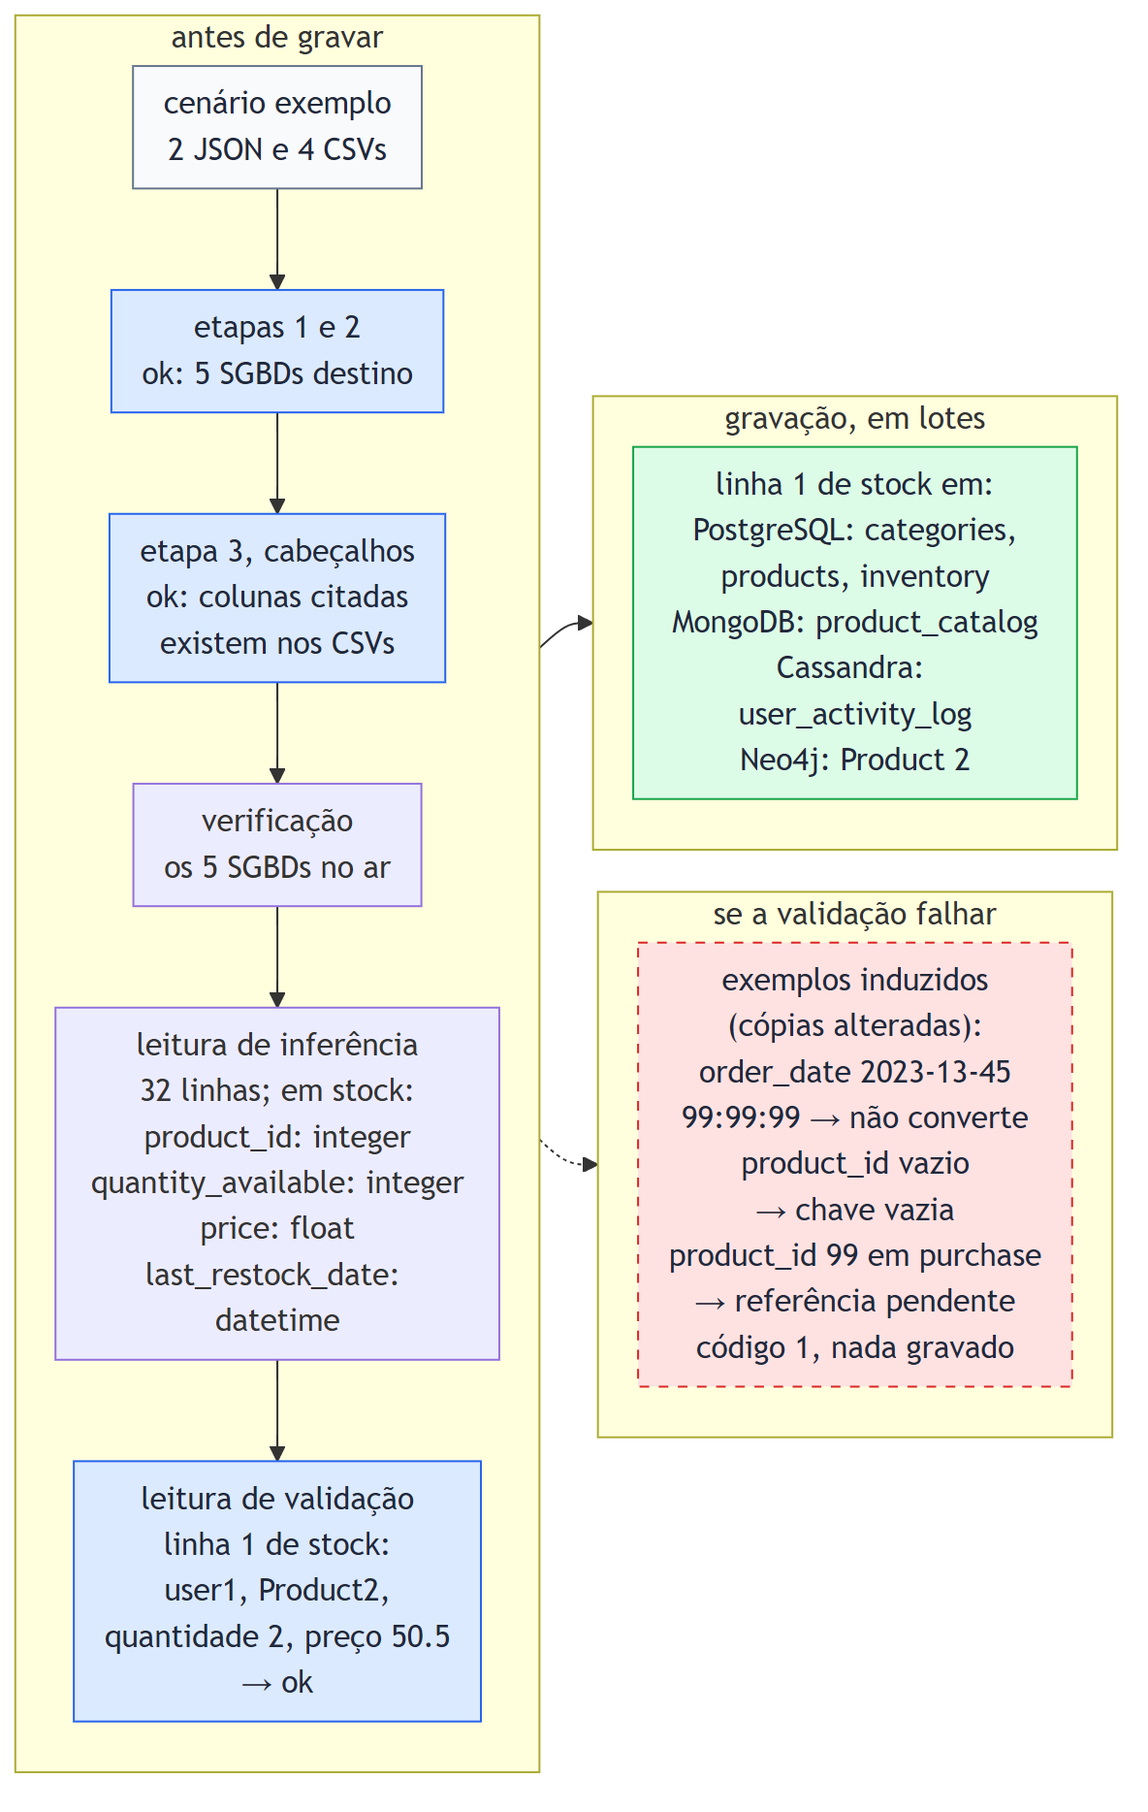
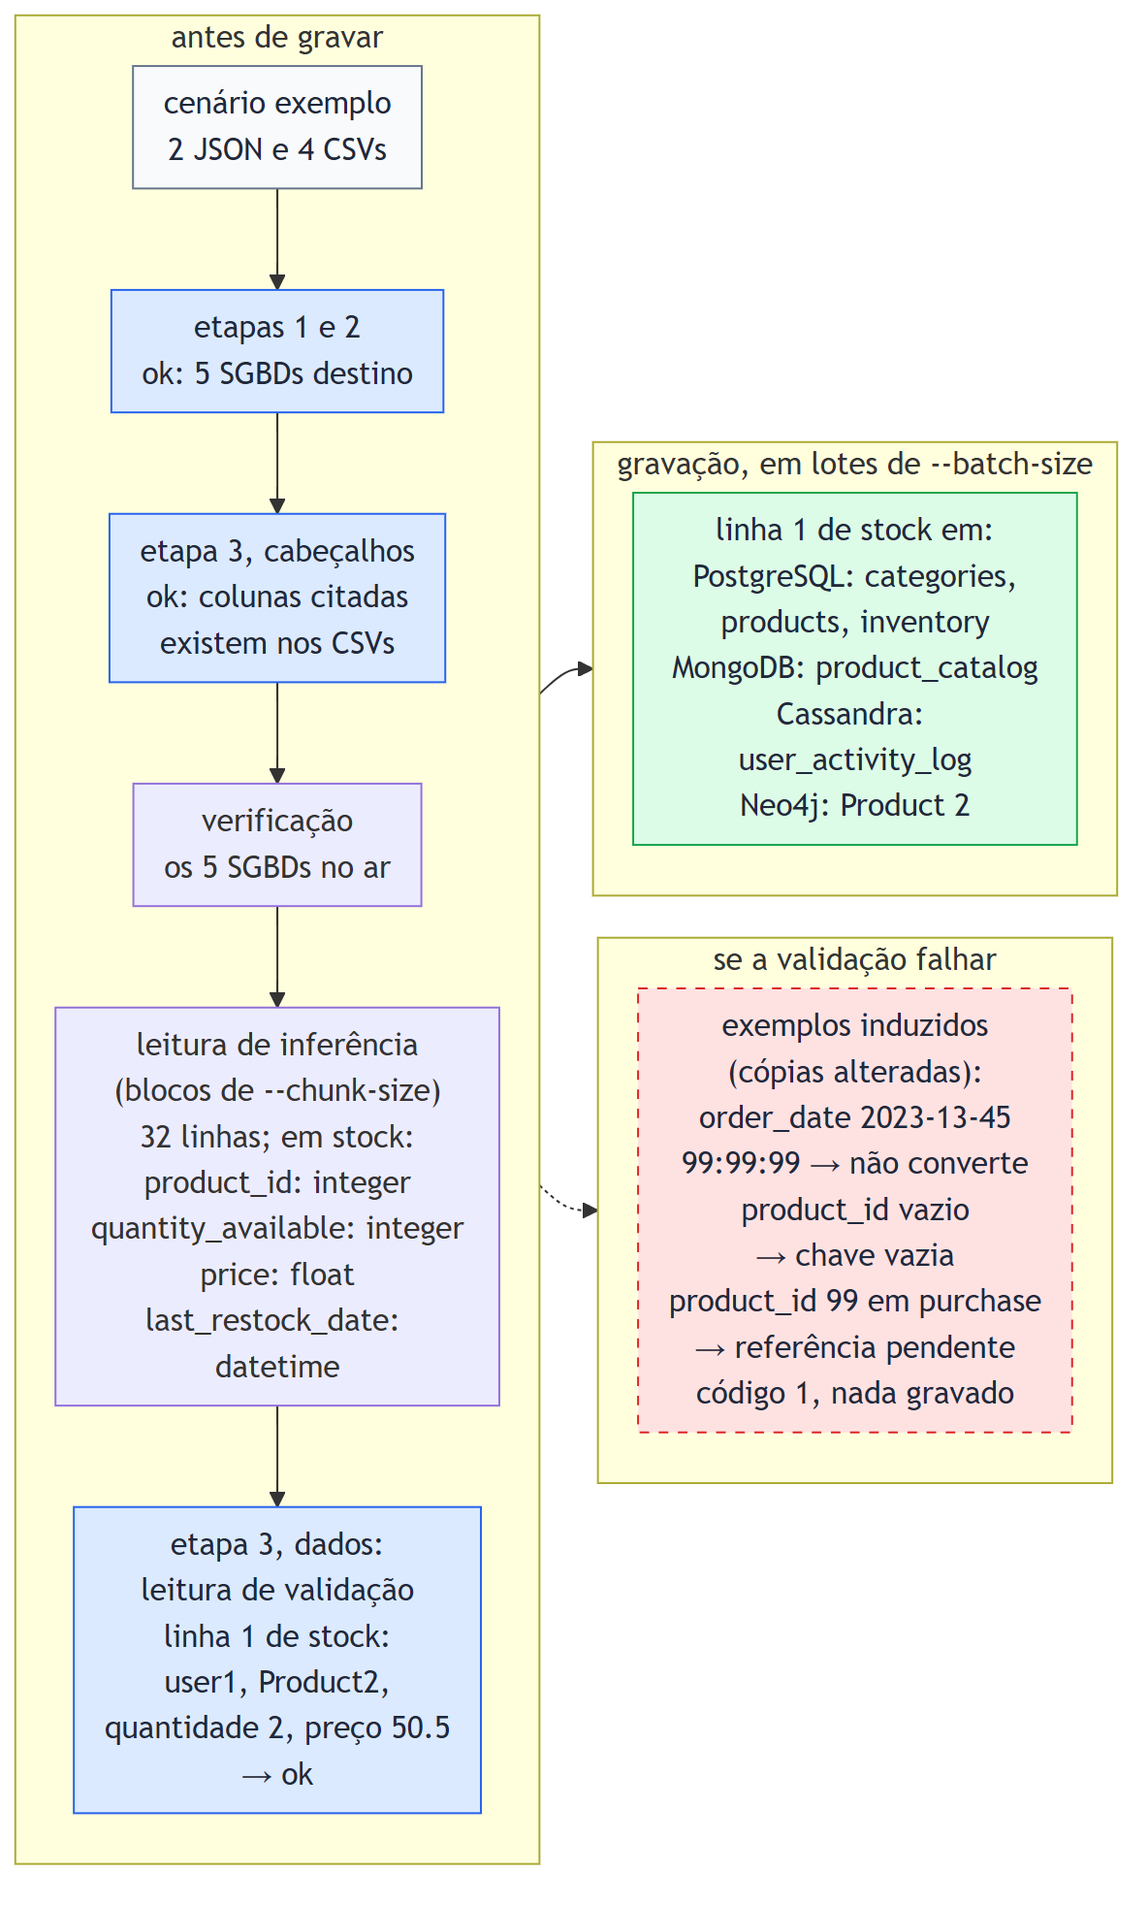
docs(tcc): correcoes da revisao final do relatorio v2.4
A falta de cassandra_partition e recusada na etapa 3 de validacao, inclusive no --dry-run (o texto dizia o contrario); a eliminacao de duplicatas por is_key vale so para o PostgreSQL; a tabela de escrita por SGBD conta linhas processadas, antes da eliminacao de duplicatas, com as linhas guardadas no texto; arestas do Neo4j mantem as propriedades da ultima linha; a QP4 define as fases historicas e deixa de citar uma fase de selecao; a importacao de arquivos maiores que a memoria fica condicionada aos conjuntos de chaves; a figura nova mostra bloco, lote e a etapa 3 sobre os dados; rotulos do grafico historico de tempo legiveis.

diff --git a/docs-tcc/chapters/ch4proposta.tex b/docs-tcc/chapters/ch4proposta.tex
@@ -200,7 +200,7 @@ indica quais podem ser omitidas.
     columns & entidade & mapear as colunas & não; se omitido, todas as colunas da fonte \\
     auto\_map, csv\_columns & entidade & controlar o mapeamento automático & não \\
     filters & entidade & selecionar linhas & não \\
-    cassandra\_\allowbreak partition, cassandra\_\allowbreak cluster & entidade do Cassandra & definir a chave primária & não; sem a partição, a gravação falha \\
+    cassandra\_\allowbreak partition, cassandra\_\allowbreak cluster & entidade do Cassandra & definir a chave primária & a partição, sim; exigida pela etapa 3 de validação \\
     csv\_column, schema\_column, is\_key, db\_type & coluna & ligar uma coluna do CSV a um atributo & não \\
     \bottomrule
   \end{tabular}
@@ -609,10 +609,11 @@ Listagem~\ref{lst:each-orders}.
 \textbf{Apache Cassandra.} As entidades são tabelas com colunas simples, e a chave
 primária é definida por dois campos próprios: \texttt{cassandra\_\allowbreak partition},
 a lista de colunas da chave de partição, e \texttt{cassandra\_\allowbreak cluster}, as
-colunas de agrupamento. A partição é obrigatória na prática, pois a linguagem CQL requer
-ao menos uma coluna de partição na chave primária; a sua ausência, porém, não é apontada
-na validação nem pelo \texttt{-{}-dry-run}, e só interrompe a importação no momento da
-gravação no Cassandra. No Cassandra, \texttt{is\_key} não
+colunas de agrupamento. A partição é obrigatória, pois a linguagem CQL requer ao menos uma
+coluna de partição na chave primária. O JSON Schema não a exige, mas a etapa 3 de
+validação recusa uma entidade do Cassandra sem \texttt{cassandra\_\allowbreak partition}
+já na conferência dos cabeçalhos, inclusive no \texttt{-{}-dry-run}, antes de gravar
+qualquer dado (Seção~\ref{sec:validacao}). No Cassandra, \texttt{is\_key} não
 participa da chave primária. A Listagem~\ref{lst:cassandra-import} mostra uma entidade
 que \textbf{une} as quatro fontes em uma tabela de eventos.
 
@@ -901,8 +902,8 @@ e precisa restar ao menos um SGBD destino depois de aplicada a opção \texttt{-
 A \textbf{etapa 3 de validação} confronta o mapeamento com os CSVs, em duas partes. A
 primeira olha só os \textbf{cabeçalhos}: confere se os arquivos existem e se as colunas
 citadas no mapeamento estão neles, se os SGBDs de modelo plano (todos, exceto o MongoDB)
-não recebem colunas aninhadas, se as colunas de partição e de agrupamento do Cassandra
-existem, se os filtros são coerentes e se as chaves estrangeiras do PostgreSQL e as
+não recebem colunas aninhadas, se cada entidade do Cassandra declara a sua partição e se
+as colunas de partição e de agrupamento existem, se os filtros são coerentes e se as chaves estrangeiras do PostgreSQL e as
 arestas do Neo4j ligam entidades válidas, nenhuma delas dividida por \texttt{each}.
 
 A segunda parte olha os \textbf{dados}. Depois da verificação dos SGBDs destino
@@ -997,11 +998,13 @@ Em seguida, os valores são convertidos para os tipos nativos fixados no passo 4
 
 Depois, cada linha selecionada é \textbf{transformada} na estrutura do modelo de dados de
 destino, segundo os conceitos revisados no capítulo~2. Para os SGBDs de organização
-tabular (o relacional PostgreSQL e o colunar Cassandra), a transformação combina três
-operações também descritas pela álgebra relacional: \textit{projeção} (somente as colunas
-mapeadas em \texttt{columns} são mantidas), \textit{renomeação} (aplicação de
-\texttt{schema\_column}) e \textit{eliminação de duplicatas} com base nas colunas de chave
-(\texttt{is\_key}), detalhada na seção~\ref{sec:exemplo-uso}. Para o modelo de documentos
+tabular (o relacional PostgreSQL e o colunar Cassandra), a transformação combina operações
+também descritas pela álgebra relacional: \textit{projeção} (somente as colunas mapeadas em
+\texttt{columns} são mantidas) e \textit{renomeação} (aplicação de \texttt{schema\_column});
+no PostgreSQL, também a \textit{eliminação de duplicatas} com base nas colunas de chave
+(\texttt{is\_key}). No Cassandra, cuja chave vem de \texttt{cassandra\_partition} e
+\texttt{cassandra\_cluster}, uma linha com chave já existente substitui a anterior; a
+seção~\ref{sec:exemplo-uso} detalha o tratamento de duplicatas em cada SGBD. Para o modelo de documentos
 (MongoDB), os valores da linha são agregados em um documento cuja hierarquia reproduz o
 aninhamento declarado em \texttt{columns}, na representação desnormalizada característica
 desse modelo. Para o modelo chave-valor (Redis), cada linha dá origem a um par em que a
@@ -1015,7 +1018,7 @@ várias linhas. Por fim, os registros são \textbf{gravados em lotes} de até
 
 No \textbf{passo 9}, a ferramenta fecha a conexão com o SGBD; no PostgreSQL, recria
 antes as chaves estrangeiras removidas no passo 7. Concluídos todos os SGBDs destino, a
-\textbf{saída} da execução é um relatório com as contagens de registros gravados por
+\textbf{saída} da execução é um relatório com as contagens de linhas enviadas, por
 entidade e por SGBD e as métricas de cada fase (seção~\ref{sec:observabilidade}), que
 permite conferir o resultado da carga.
 
@@ -1105,7 +1108,7 @@ execução termina com código 1 e a mensagem \texttt{nothing was written}.
 
 \begin{figure}[H]
   \centering
-  \includegraphics[width=13cm]{images/figure11b-import-example}
+  \includegraphics[width=12.5cm]{images/figure11b-import-example}
   \caption{Caminho da primeira linha de \texttt{stock} no cenário exemplo, com três problemas induzidos em cópias alteradas dos arquivos.}
   \label{fig:import-example}
   \par\vspace{4pt}
@@ -1163,8 +1166,8 @@ seguir.
 projeta quatro colunas, com o \texttt{product\_id} como chave: o resultado é a relação da
 Tabela~\ref{tab:pg-inventory}, criada e gravada no banco \texttt{ecommerce} declarado
 no arquivo de conexão (Listagem~\ref{lst:conexao-exemplo}). As entidades \texttt{categories} e
-\texttt{products} também leem de \texttt{stock}, e a eliminação de duplicatas pela chave
-reduz o resultado aos oito produtos e oito categorias distintos; a entidade
+\texttt{products} também leem de \texttt{stock} e recebem os oito produtos e as oito
+categorias da fonte, todos distintos; a entidade
 \texttt{orders} lê da fonte \texttt{purchase} (as oito compras). As chaves estrangeiras
 declaradas em \texttt{relationships} ligam produtos a categorias e pedidos a produtos. Como
 a coluna \texttt{price} é declarada \texttt{NUMERIC(14,2)}, o PostgreSQL guarda os preços com
@@ -1396,9 +1399,9 @@ As contagens são de linhas depois dos filtros e da divisão por \texttt{each}, 
 qualquer eliminação de duplicatas, que acontece na gravação e varia por SGBD. No
 PostgreSQL, a ferramenta descarta, dentro de cada lote, as linhas com chave repetida,
 mantendo a última, e grava com \texttt{INSERT ... ON CONFLICT DO NOTHING}, de modo que,
-entre lotes diferentes, prevalece a primeira linha gravada. No Neo4j, prevalece a
-primeira linha de cada chave, e o \texttt{MERGE} não duplica nós nem arestas já
-existentes. No Cassandra e no Redis, uma escrita com chave já existente substitui o
+entre lotes diferentes, prevalece a primeira linha gravada. No Neo4j, o \texttt{MERGE} não
+duplica nós nem arestas já existentes: entre linhas com a mesma chave de nó, prevalece a
+primeira; numa aresta repetida, prevalecem as propriedades da última linha. No Cassandra e no Redis, uma escrita com chave já existente substitui o
 registro anterior. No MongoDB, não há eliminação de duplicatas: cada linha gera um
 documento. No cenário exemplo, nenhuma chave se repete --- as oito compras são de oito
 compradores e oito pedidos distintos ---, e o que é gravado coincide com as contagens da
@@ -1538,9 +1541,11 @@ ultrapassa o orçamento. Na gravação, as linhas de cada destino acumulam-se at
 
 O pico de memória acompanha, assim, o tamanho do bloco, e não o do arquivo. Além do
 bloco, a memória guarda os agregados por coluna da leitura de inferência, que resumem o
-necessário para decidir o tipo de cada coluna, e, na leitura de validação, os conjuntos de
-chaves das entidades referenciadas, usados para conferir as referências pendentes. Estes
-últimos crescem com o número de chaves distintas, e não com o número de linhas.
+necessário para decidir o tipo de cada coluna; na leitura de validação, os conjuntos de
+chaves das entidades referenciadas, usados para conferir as referências pendentes; e, na
+escrita no Neo4j, o conjunto das chaves de nós já gravadas, usado para não repeti-las.
+Esses conjuntos crescem com o número de chaves distintas, e não com o número de linhas;
+um arquivo maior que a memória disponível pode ser importado desde que eles caibam nela.
 
 A Tabela~\ref{tab:bloco} mostra o efeito do tamanho do bloco em uma importação de cem mil
 linhas no modo multifonte, medida nas campanhas do Capítulo~\ref{cap:avaliacao}.

diff --git a/docs-tcc/chapters/ch6avaliacao.tex b/docs-tcc/chapters/ch6avaliacao.tex
@@ -188,18 +188,20 @@ de validação, juntas, respondem pelos $21{,}3\%$ restantes.
 
 Como a escrita concentra o custo, convém abri-la por SGBD. A
 Tabela~\ref{tab:escrita-sgbd} e a Figura~\ref{fig:throughput-sgbd} apresentam, para a
-importação multifonte, o número de linhas gravadas, o tempo de escrita e o
-\textit{throughput} resultante em cada um dos cinco bancos. Os valores variam por uma ordem
-de grandeza: o Redis grava a cerca de \num{9118}~linhas/s, enquanto o Cassandra fica em
-$901$~linhas/s.
+importação multifonte, o número de linhas processadas pela escrita, o tempo de escrita e o
+\textit{throughput} resultante, em linhas processadas por segundo, em cada um dos cinco
+bancos. As linhas processadas são as enviadas a cada SGBD antes da eliminação de duplicatas
+(seção~\ref{sec:exemplo-uso}); no PostgreSQL e no Neo4j, as linhas com chave repetida não
+geram registros novos. Os valores variam por uma ordem de grandeza: o Redis processa cerca
+de \num{9118}~linhas/s, enquanto o Cassandra fica em $901$~linhas/s.
 
 \begin{table}[H]
-  \caption{Escrita por SGBD em uma importação ($N = 100\,000$, multifonte, bloco de 8~MB). Campanha sem instrumentação de memória.}
+  \caption{Escrita por SGBD em uma importação ($N = 100\,000$, multifonte, bloco de 8~MB): linhas processadas pela escrita, antes da eliminação de duplicatas. Campanha sem instrumentação de memória.}
   \label{tab:escrita-sgbd}
   \centering
   \begin{tabular}{l r r r}
     \toprule
-    \textbf{SGBD} & \textbf{Linhas} & \textbf{Tempo (s)} & \textbf{Linhas/s} \\
+    \textbf{SGBD} & \textbf{Linhas processadas} & \textbf{Tempo (s)} & \textbf{Linhas/s} \\
     \midrule
     Cassandra  & \num{100000} & 110{,}96 &   $901$ \\
     Neo4j      &  \num{89275} &  27{,}10 & \num{3294} \\
@@ -221,7 +223,7 @@ $901$~linhas/s.
       bar width=14pt,
       symbolic y coords={Cassandra, Neo4j, PostgreSQL, MongoDB, Redis},
       ytick=data,
-      xlabel={\textit{Throughput} de escrita (linhas/s)},
+      xlabel={\textit{Throughput} de escrita (linhas processadas/s)},
       xmin=0, xmax=11000,
       scaled x ticks=false,
       xtick={0,2000,4000,6000,8000,10000},
@@ -242,9 +244,13 @@ O Cassandra sozinho responde por $110{,}96$~s dos $164{,}84$~s da fase de escrit
 de $67\%$ --- e por $53\%$ da importação inteira. Qualquer afirmação sobre ``o tempo de
 escrita'' é, portanto, em larga medida uma afirmação sobre o Cassandra neste ambiente, o que
 reforça a necessidade de abrir a fase por SGBD em vez de tratá-la como um bloco único. As
-linhas gravadas também diferem entre os SGBDs, porque cada um recebe as entidades do seu
+linhas processadas também diferem entre os SGBDs, porque cada um recebe as entidades do seu
 mapeamento: o MongoDB, por exemplo, grava o catálogo de produtos e os pedidos, e o
-Cassandra, os eventos das quatro fontes.
+Cassandra, os eventos das quatro fontes. Nem todas viram registros: no PostgreSQL, as
+\num{73660} linhas processadas resultam em \num{62167} linhas guardadas, pois a tabela
+\texttt{categories} recebe uma linha por produto do estoque, mas guarda só as 116 categorias
+distintas; no Neo4j, as \num{89275} linhas resultam em \num{51602} nós e arestas, pois os
+\num{38833} compradores das compras são apenas \num{1160} usuários distintos.
 
 \subsection{Modos de Importação: Multifonte \textit{versus} Combinado (QP2)}
 \label{sec:res-modos}
@@ -282,8 +288,8 @@ multifonte. Por isso, e porque a ferramenta separa o arquivo combinado por tipo 
 durante a leitura, as leituras de inferência e de validação do combinado levam cerca de
 $26\%$ mais tempo. A escrita também fica mais lenta, porque, na gravação, cada SGBD relê
 as fontes de que precisa (seção~\ref{sec:algoritmo}): no modo multifonte, o Redis, por
-exemplo, relê apenas os dois arquivos menores, de seleções e de carrinhos, enquanto no
-combinado todo SGBD relê o arquivo inteiro --- a escrita no Redis passa de $5{,}44$ para
+exemplo, relê apenas os arquivos de seleções e de carrinhos (cerca de 5{,}7~MB), enquanto no
+combinado todo SGBD relê o arquivo inteiro ($28{,}55$~MB) --- a escrita no Redis passa de $5{,}44$ para
 $12{,}61$~s (Tabela~\ref{tab:fases-100k}). No total, a importação combinada leva $13\%$
 mais tempo, diferença bem maior que a variação de $2{,}7\%$ observada entre campanhas. O
 pico de memória do combinado, por outro lado, é menor ($54{,}6$ contra $66{,}1$~MB); a
@@ -384,13 +390,15 @@ escrita ingênua e a materialização, que a versão final não oferece, sobre u
 coleção \texttt{orders}, e por isso não se comparam diretamente aos números das subseções
 anteriores.
 
-A Tabela~\ref{tab:naive-optimized} contrasta as duas estratégias de escrita no ponto
-$N = 10\,000$, com materialização. A estratégia em lote importa o mesmo conjunto de dados
---- as mesmas \num{27494} linhas gravadas --- entre $8{,}5$ e $9{,}3$ vezes mais rápido que
-a via ingênua. O ganho concentra-se, como esperado, nas duas fases que a estratégia em lote
-ataca: o mapeamento (conversão de tipos), acelerado cerca de $42\times$ pela vetorização, e
-a escrita, acelerada $7{,}7\times$ pela gravação em lote. A leitura e a seleção, que a
-estratégia não altera, permanecem estáveis.
+Nessas medições, a ferramenta registrava três fases: a \textbf{leitura} do arquivo inteiro,
+o \textbf{mapeamento}, que convertia os tipos e montava os registros de cada SGBD, e a
+\textbf{escrita}. A Tabela~\ref{tab:naive-optimized} contrasta as duas estratégias de
+escrita no ponto $N = 10\,000$, com materialização. A estratégia em lote importa o mesmo
+conjunto de dados --- as mesmas \num{27494} linhas gravadas --- entre $8{,}5$ e $9{,}3$
+vezes mais rápido que a via ingênua. O ganho concentra-se, como esperado, nas duas fases que
+a estratégia em lote ataca: o mapeamento, acelerado cerca de $42\times$ pela vetorização da
+conversão de tipos, e a escrita, acelerada $7{,}7\times$ pela gravação em lote. A leitura,
+que a estratégia não altera, leva menos de dois segundos nas duas.
 
 \begin{table}[H]
   \caption{Tempo total e das fases dominantes por estratégia de escrita, em segundos ($N = 10\,000$, materialização; medição histórica). Campanha sem instrumentação de memória.}
@@ -547,9 +555,9 @@ esse resultado que justificou manter a leitura em blocos como único modelo da v
       xtick=data,
       xlabel={Linhas},
       ylabel={Tempo total (s)},
-      ymin=0,
-      nodes near coords={\pgfmathprintnumber[fixed, precision=2]{\pgfplotspointmeta}},
-      nodes near coords style={font=\footnotesize},
+      ymin=0, ymax=230,
+      nodes near coords={\pgfmathprintnumber[fixed, fixed zerofill, precision=2]{\pgfplotspointmeta}},
+      nodes near coords style={font=\footnotesize, rotate=90, anchor=west},
       enlarge x limits=0.25,
       legend style={at={(0.5,-0.32)}, anchor=north, legend columns=-1},
       legend cell align=left,
@@ -634,7 +642,10 @@ $12{,}5\times$ em cem mil linhas (QP5), a um custo de tempo de apenas $+10\%$ ne
 e o achatamento do pico com o volume (QP6) mostra que ela importa com um pico que
 acompanha o bloco, e não o arquivo. É esse resultado que sustenta a principal afirmação de
 projeto da ferramenta: a de importar arquivos maiores que a memória disponível, algo
-impossível com a materialização.
+impossível com a materialização, desde que os conjuntos de chaves distintas que a validação
+e a escrita no Neo4j guardam (seção~\ref{sec:modelos-execucao}) caibam nela. Essa
+possibilidade decorre do projeto e não foi medida neste trabalho, cujo maior volume tem cem
+mil linhas.
 
 \subsection{Ameaças à Validade}
 \label{sec:ameacas-validade}

diff --git a/docs-tcc/main.tex b/docs-tcc/main.tex
@@ -416,9 +416,10 @@
   métricas por fase de execução. Antes de gravar qualquer dado, a ferramenta confere as
   configurações e os dados em três etapas de validação, inclusive uma leitura completa dos
   dados pelo mesmo código da gravação, e interrompe a importação, sem gravar nada, diante de
-  qualquer problema. O desempenho apoia-se na escrita em lote, com conversão vetorizada de
-  tipos, e na leitura dos arquivos em blocos, de memória limitada, capaz de importar
-  arquivos maiores que a memória disponível. Uma avaliação empírica com dados sintéticos
+  qualquer problema que essas etapas encontrem. O desempenho apoia-se na escrita em lote,
+  com conversão vetorizada de tipos, e na leitura dos arquivos em blocos, cujo consumo de
+  memória acompanha o tamanho do bloco e o número de chaves distintas, e não o tamanho do
+  arquivo. Uma avaliação empírica com dados sintéticos
   mostrou que a validação prévia ocupa cerca de um quinto do tempo de uma importação de cem
   mil linhas, dominada pela escrita nos bancos; medições históricas mostraram que a escrita
   em lote acelerou a importação em cerca de nove vezes em relação à gravação linha a linha e
@@ -456,9 +457,10 @@
   and performs native type casting to each DBMS, with observability and per-phase execution
   metrics. Before writing any data, the tool checks the configuration and the data in three
   validation stages, including a full read of the data through the same code as the write,
-  and stops the import, writing nothing, at any problem. Performance rests on batch writing,
-  with vectorized type casting, and on reading the files in chunks, with bounded memory,
-  able to import files larger than available memory. An empirical evaluation with synthetic
+  and stops the import, writing nothing, at any problem these stages find. Performance rests
+  on batch writing, with vectorized type casting, and on reading the files in chunks, whose
+  memory use follows the chunk size and the number of distinct keys, not the file size. An
+  empirical evaluation with synthetic
   data showed that the prior validation takes about one fifth of the time of a
   100,000-row import, which is dominated by database writes; historical measurements showed
   that batch writing sped up the import by roughly nine times over row-by-row writing and

diff --git a/docs-tcc/chapters/consideracoes.tex b/docs-tcc/chapters/consideracoes.tex
@@ -26,8 +26,9 @@ e a validação prévia dos dados, pelo quinto restante; em troca, nenhum proble
 detecta chega a uma gravação parcial. As medições históricas mostraram que a estratégia em
 lote acelerou a importação em cerca de nove vezes sobre a linha de base ingênua e que a
 leitura em blocos reduziu o pico de memória em mais de doze vezes no maior volume medido, em
-relação à carga do arquivo inteiro na memória --- o que habilita a importação de arquivos
-maiores que a memória disponível. A equivalência das contagens entre os dois modos de
+relação à carga do arquivo inteiro na memória --- o que habilita, pelo projeto, a importação
+de arquivos maiores que a memória disponível, desde que os conjuntos de chaves distintas
+caibam nela. A equivalência das contagens entre os dois modos de
 importação, conferida por testes automatizados, permite tratar a escolha entre eles como uma
 questão de organização e de custo, não de correção.
 
